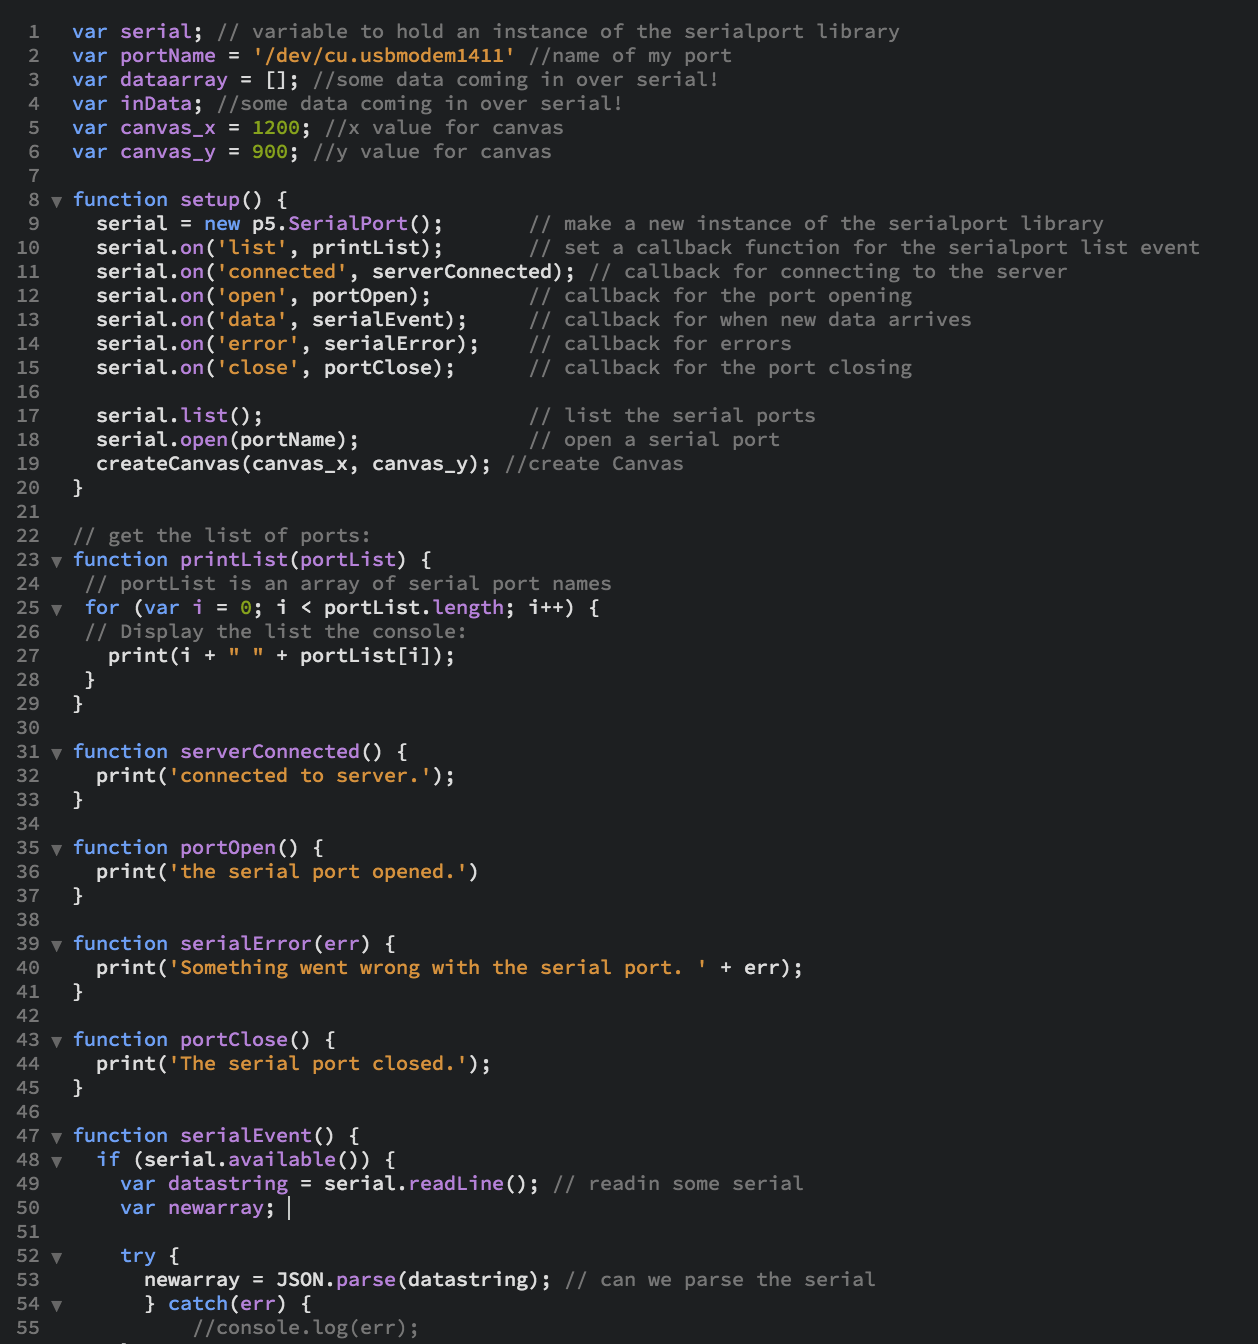
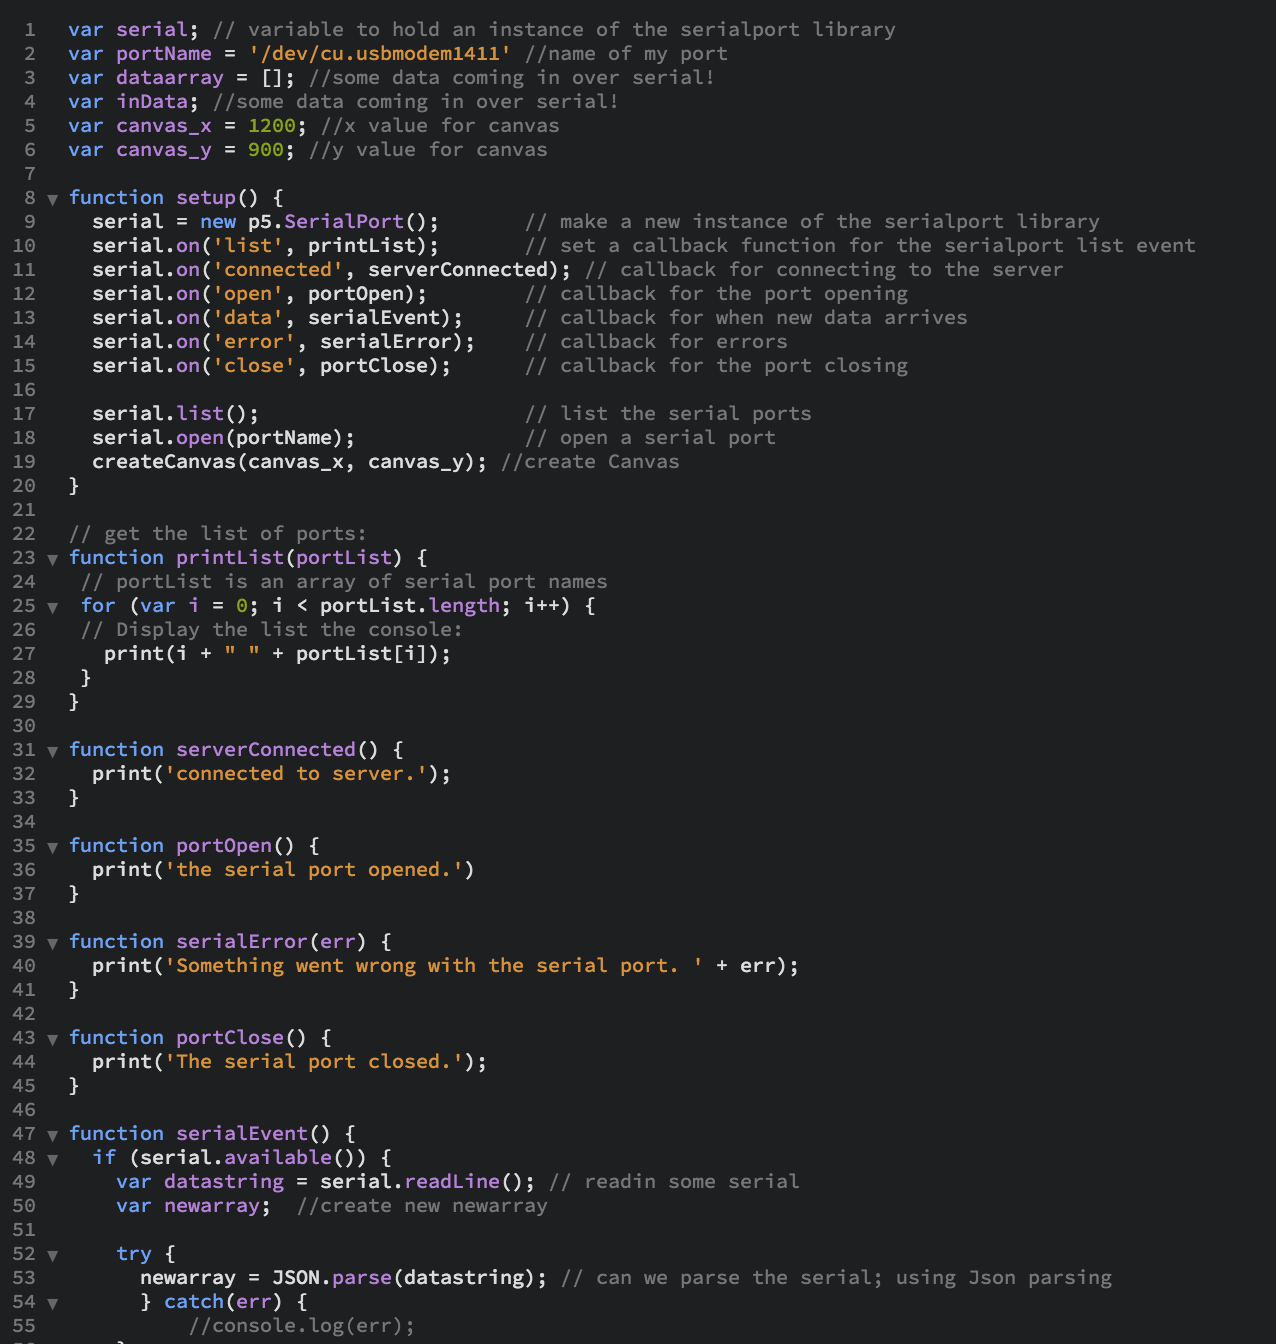
hw7

diff --git a/assignments7.html b/assignments7.html
@@ -68,7 +68,7 @@
             
             <h4>Code 1 - Arduino</h4>
             <p>
-            I set A0 as input, A1 as input, and pin 5 as output. int s1 and s2 tread the analog value from A0 and A1 pin. And I made serial print in the arduino [s1, s2] format and this format can be read on the web through p5. It delays 100ms. Belw, I made if serial is available, then it stores the serial value from webpage to int inByte. Then, it writes inByte value to serial, then it sends to LED strip through pin5. 
+            I set A0 as input, A1 as input, and pin 5 as output. int s1 and s2 tread the analog value from A0 and A1 pin. And I made serial print in the arduino [s1, s2] json data format and this format can be read on the web through p5. It delays 100ms. Belw, I made if serial is available, then it stores the serial value from webpage to int inByte. Then, it writes inByte value to serial, then it sends to LED strip through pin5. 
             </p>
            <img src=images/assignment7/code1.png width=500>
             
@@ -83,7 +83,7 @@
             
             <h4>Code 3 - Sketch.js</h4>
             <p>
-            This is a sketch.js that gets and sends the data from/to the serialport library. I made two functions that draw two differents colors of ellipses. And I used a keypressed function so I can get the value from the keyboard typing. In the sketch.js I set the value for the x and y values for canvs size. In the graphData function, I used the map function to set the min and max (from 0 ~ 870) value for the graph. For the first ellipse function, I chose the stroke color to be dark red and ellipse color to be pale red. For the second ellipse function, I chose the stroke color to be dark green and ellipse color to be blue. Lastly, in the ellipse function, the x and y size should depend on the data value and the position should be one on the center and the other one on the leftside of the center on the canvas. <br><br>
+            This is a sketch.js that gets and sends the data from/to the serialport library. I made two functions that draw two differents colors of ellipses. And I used a keypressed function so I can get the value from the keyboard typing. In the sketch.js I set the value for the x and y values for canvs size. In the code, it uses json parssing to read the data. In the graphData function, I used the map function to set the min and max (from 0 ~ 870) value for the graph. For the first ellipse function, I chose the stroke color to be dark red and ellipse color to be pale red. For the second ellipse function, I chose the stroke color to be dark green and ellipse color to be blue. Lastly, in the ellipse function, the x and y size should depend on the data value and the position should be one on the center and the other one on the leftside of the center on the canvas. <br><br>
             For the output function, I set value to be 0 and I used the keypressed function to store the key value to the set value. Then, I used serial.write function to write the value to arduino. <br><br>
             Lastly, I used draw graph function. The background of canvas in black, fill the text to be white and write "inData: " + value. Then, it draws two ellipses on the canvas.
             
